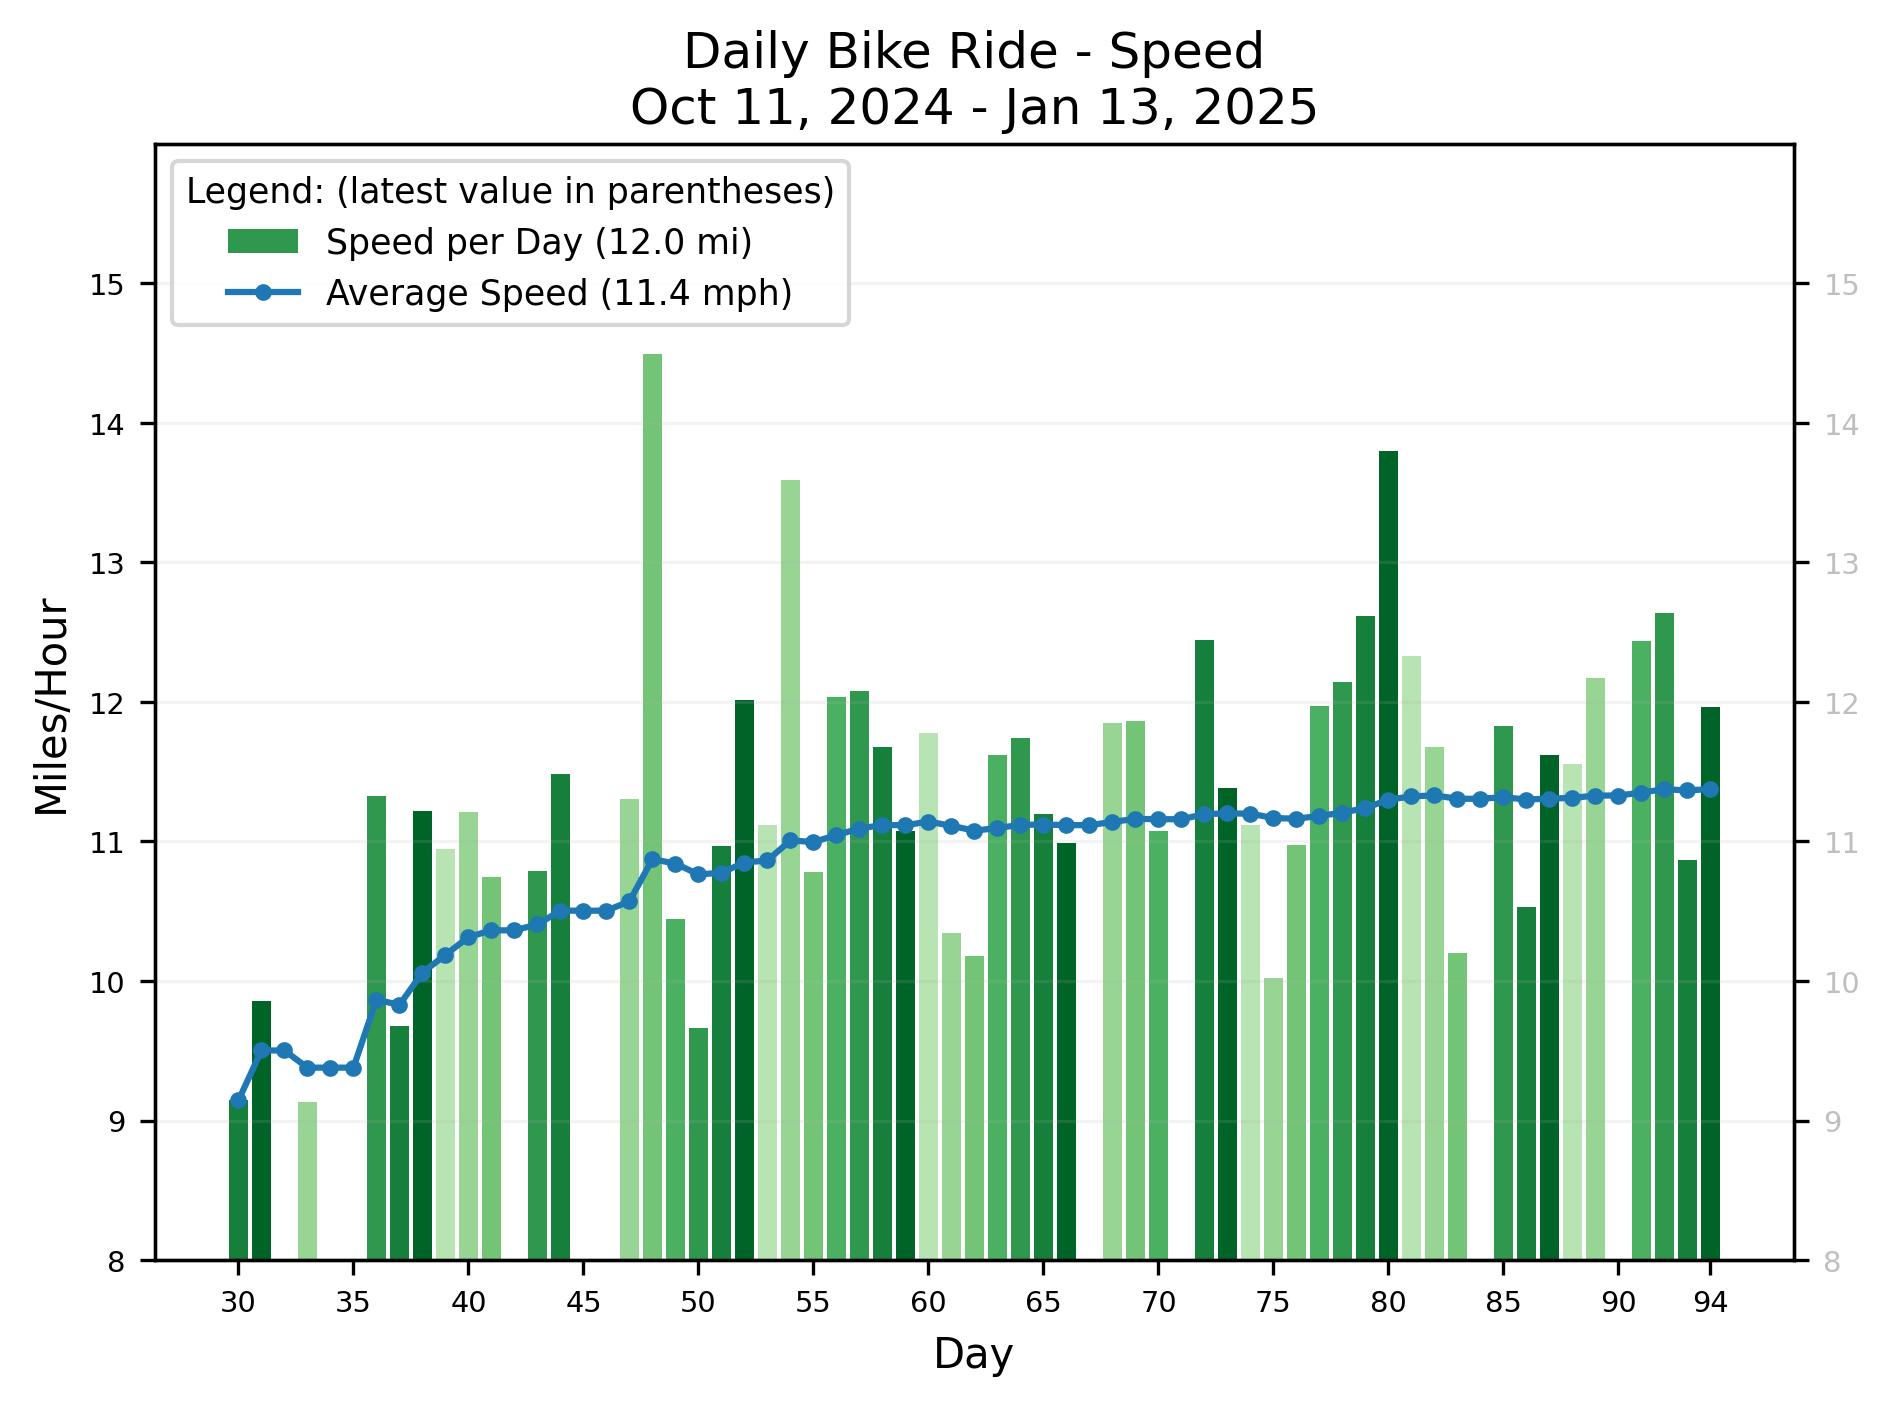
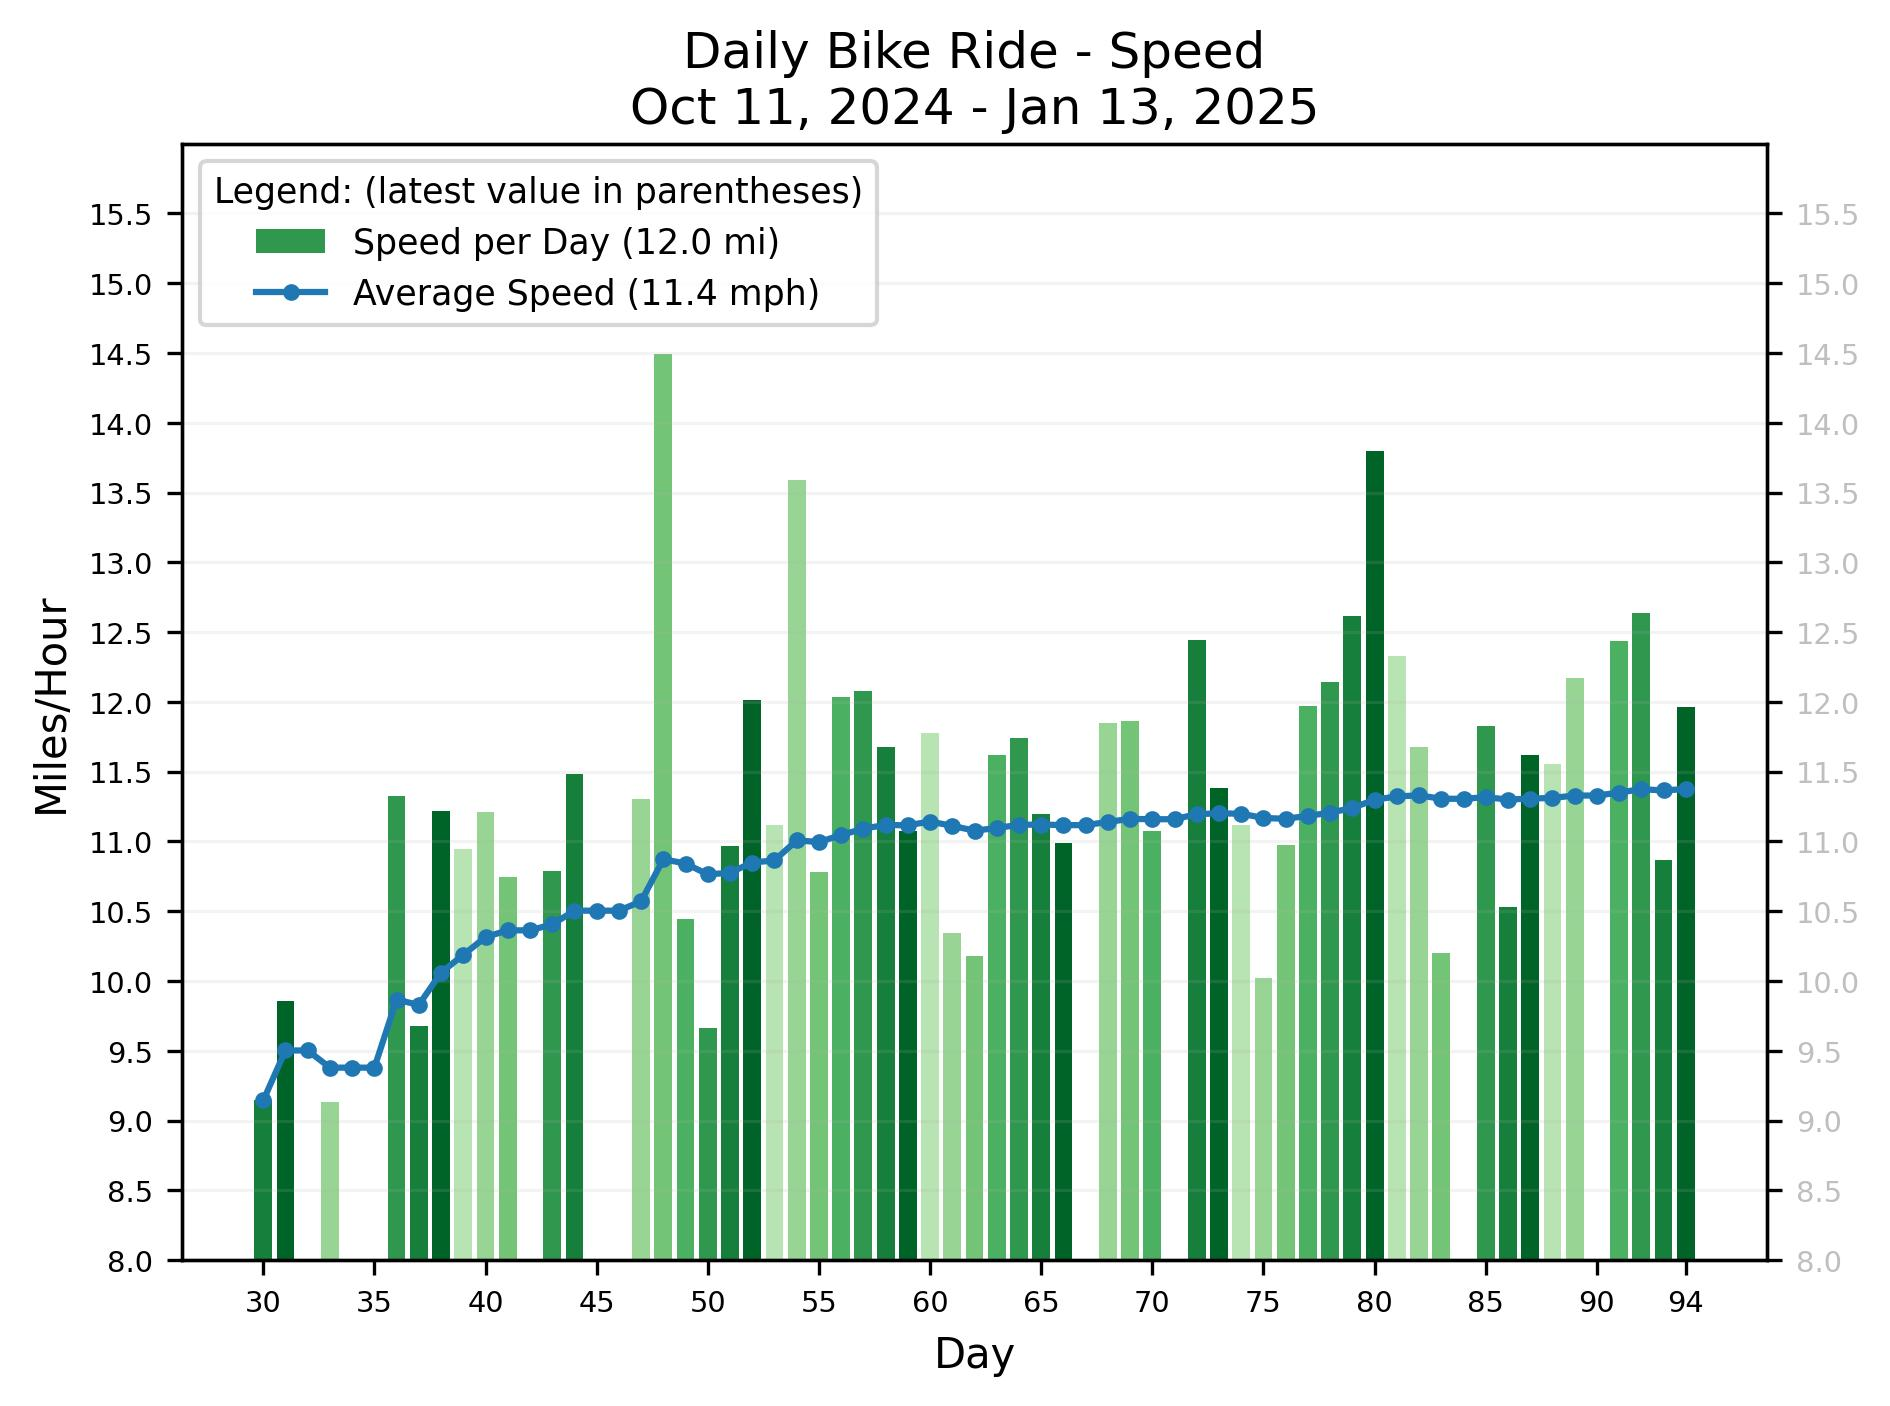
tweak speed graph scales

diff --git a/src/biking/graph/speed.py b/src/biking/graph/speed.py
@@ -16,6 +16,9 @@ class SpeedGraph(Graph):
     def label(self):
         return "Speed"
 
+    def scale_step(self):
+        return 0.5
+
     def y_axis(self, ax1):
         self.speed_y_axis(ax1, "speed_per_day", "avg_speed_per_day")
 
@@ -33,7 +36,7 @@ class SpeedGraph(Graph):
         max_value = np.nanmax(nan_y)
         lower_limit = max(0, int(min_value) - 1)
         upper_limit = math.ceil(max_value) + 1
-        scale = range(lower_limit, upper_limit, 1)
+        scale = np.arange(lower_limit, upper_limit, self.scale_step())
 
         ax1.set_ylabel("Miles/Hour")
         ax1.grid(axis="y", linestyle="-", alpha=0.15)

diff --git a/src/biking/graph/top_speed.py b/src/biking/graph/top_speed.py
@@ -5,5 +5,8 @@ class TopSpeedGraph(SpeedGraph):
     def label(self):
         return "Top Speed"
 
+    def scale_step(self):
+        return 1
+
     def y_axis(self, ax1):
         self.speed_y_axis(ax1, "top_speed_per_day", "avg_top_speed_per_day")

diff --git a/README.md b/README.md
@@ -154,3 +154,29 @@ on the console.  Here's what it looked like when last captured:
     elevation range (ft)  low:  min   max   avg   high:  min   max   avg
                                 ----  ----  ----         ----  ----  ----
                                  17   256   141           390  1009   540
+
+    Date range: 2024-10-11 to 2025-01-12
+
+    days  total  biked  tracked  skipped  ride rate
+          -----  -----  -------  -------  ---------
+             94     85     55        9     90.43%
+
+    distance (miles)  min   max   avg   total
+                      ----  ----  ----  -------
+                       6.9  31.4  15.0   1272.3
+
+    speed (mph)  min   max   avg   wavg
+                 ----  ----  ----  ----
+                  9.1  14.5  11.4  11.4
+
+    top speed (mph)  min   max   avg
+                     ----  ----  ----
+                     22.9  42.9  30.0
+
+    elevation gain (ft)  min   max   avg   total    total miles
+                         ----  ----  ----  -------  -----------
+                          287  2031   743    40874          7.7
+
+    elevation range (ft)  low:  min   max   avg   high:  min   max   avg
+                                ----  ----  ----         ----  ----  ----
+                                 17   256   141           390  1009   540
